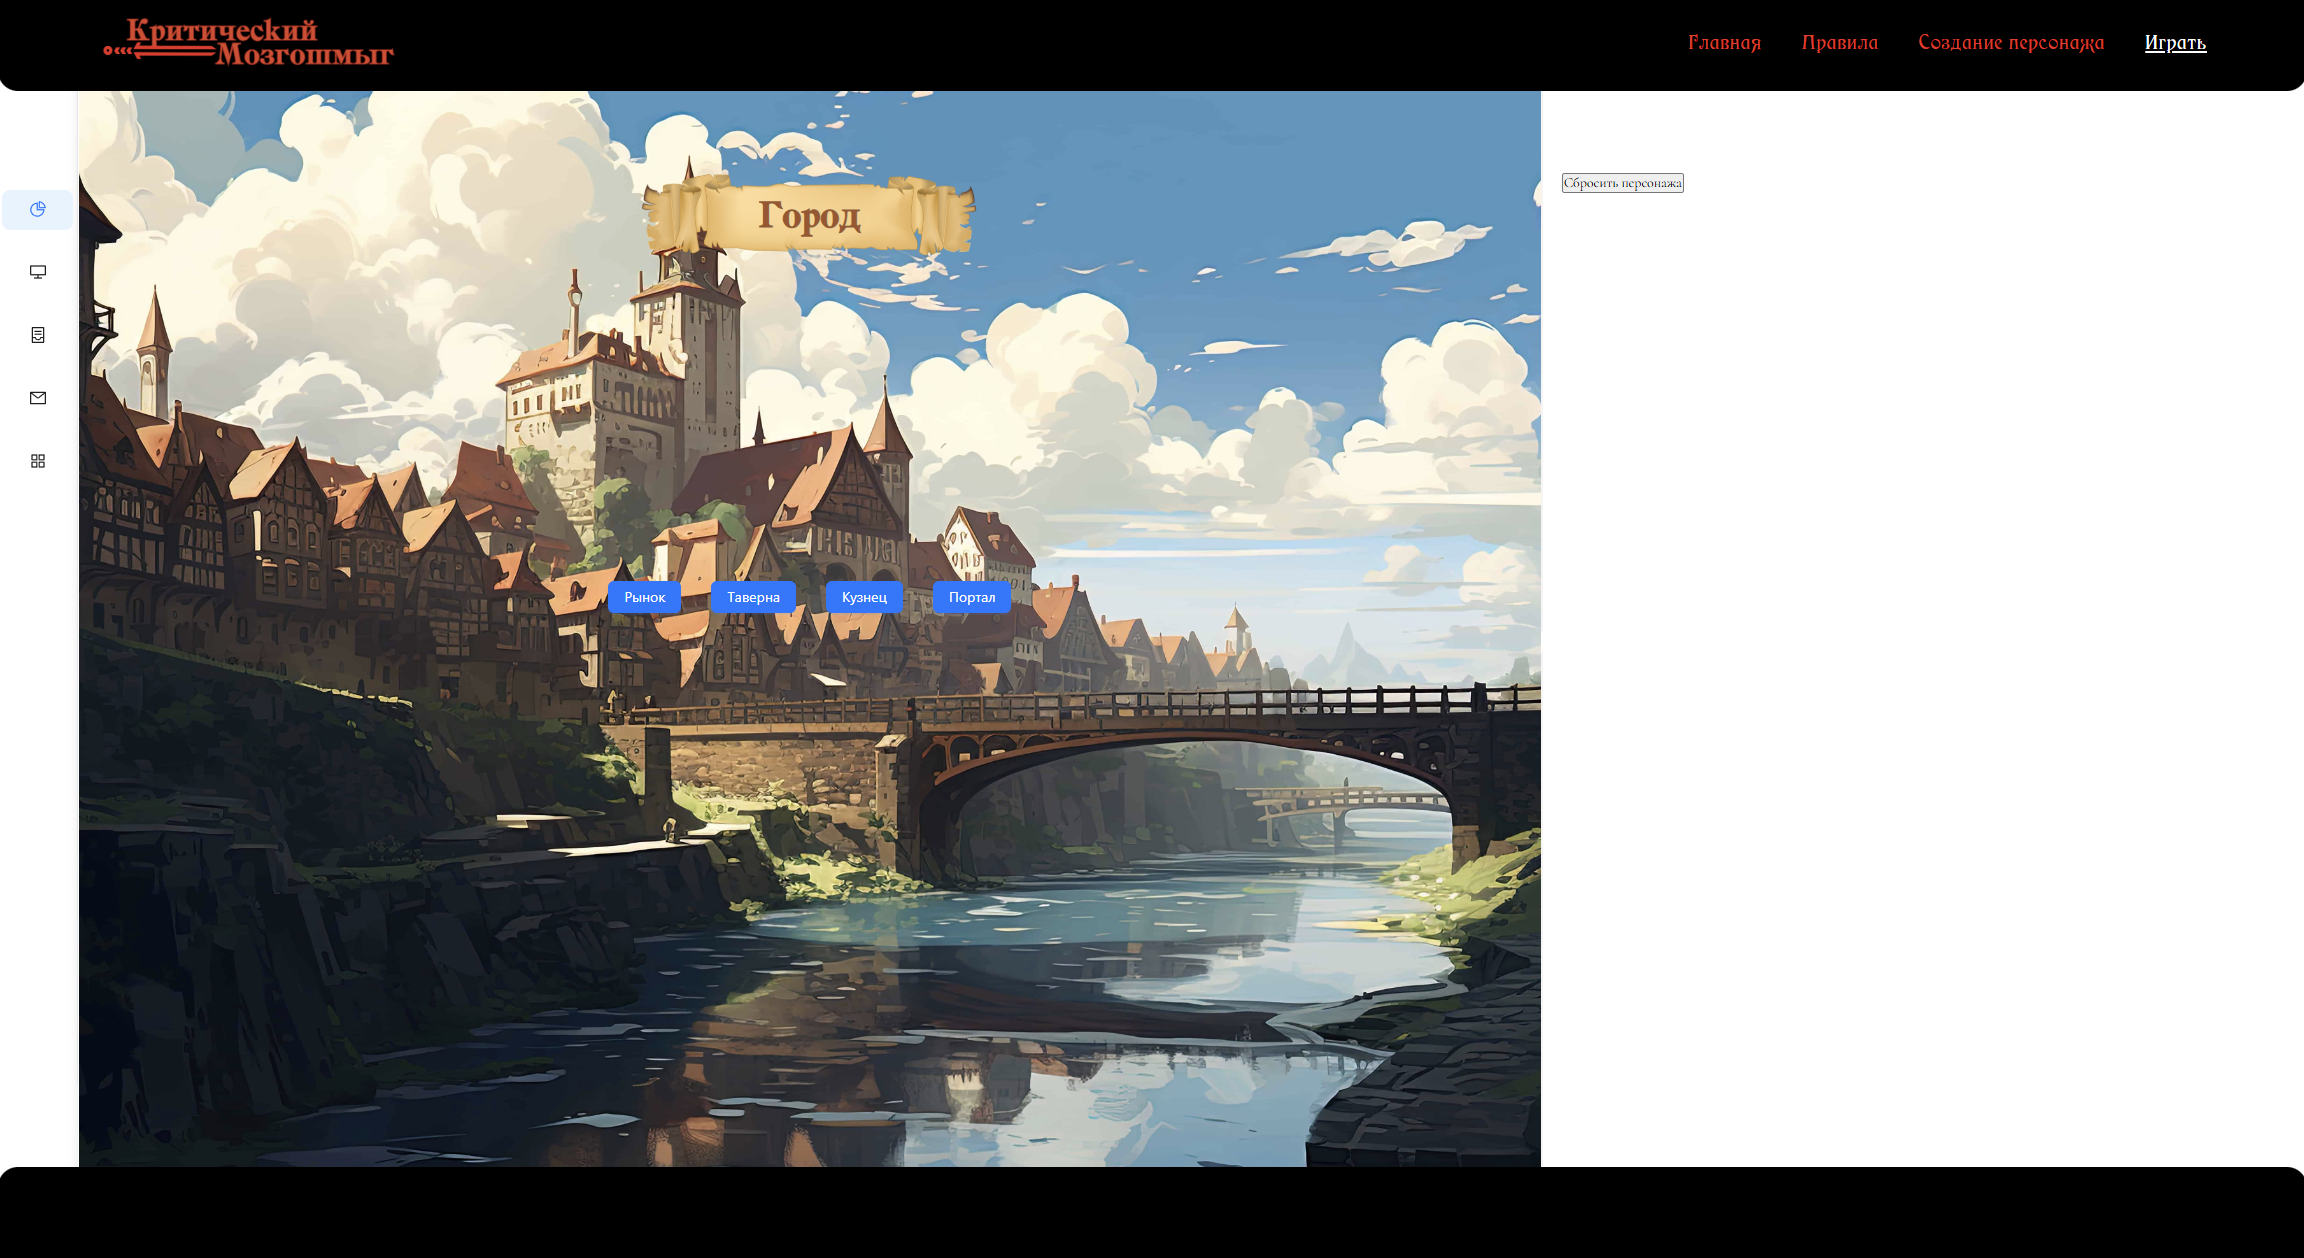
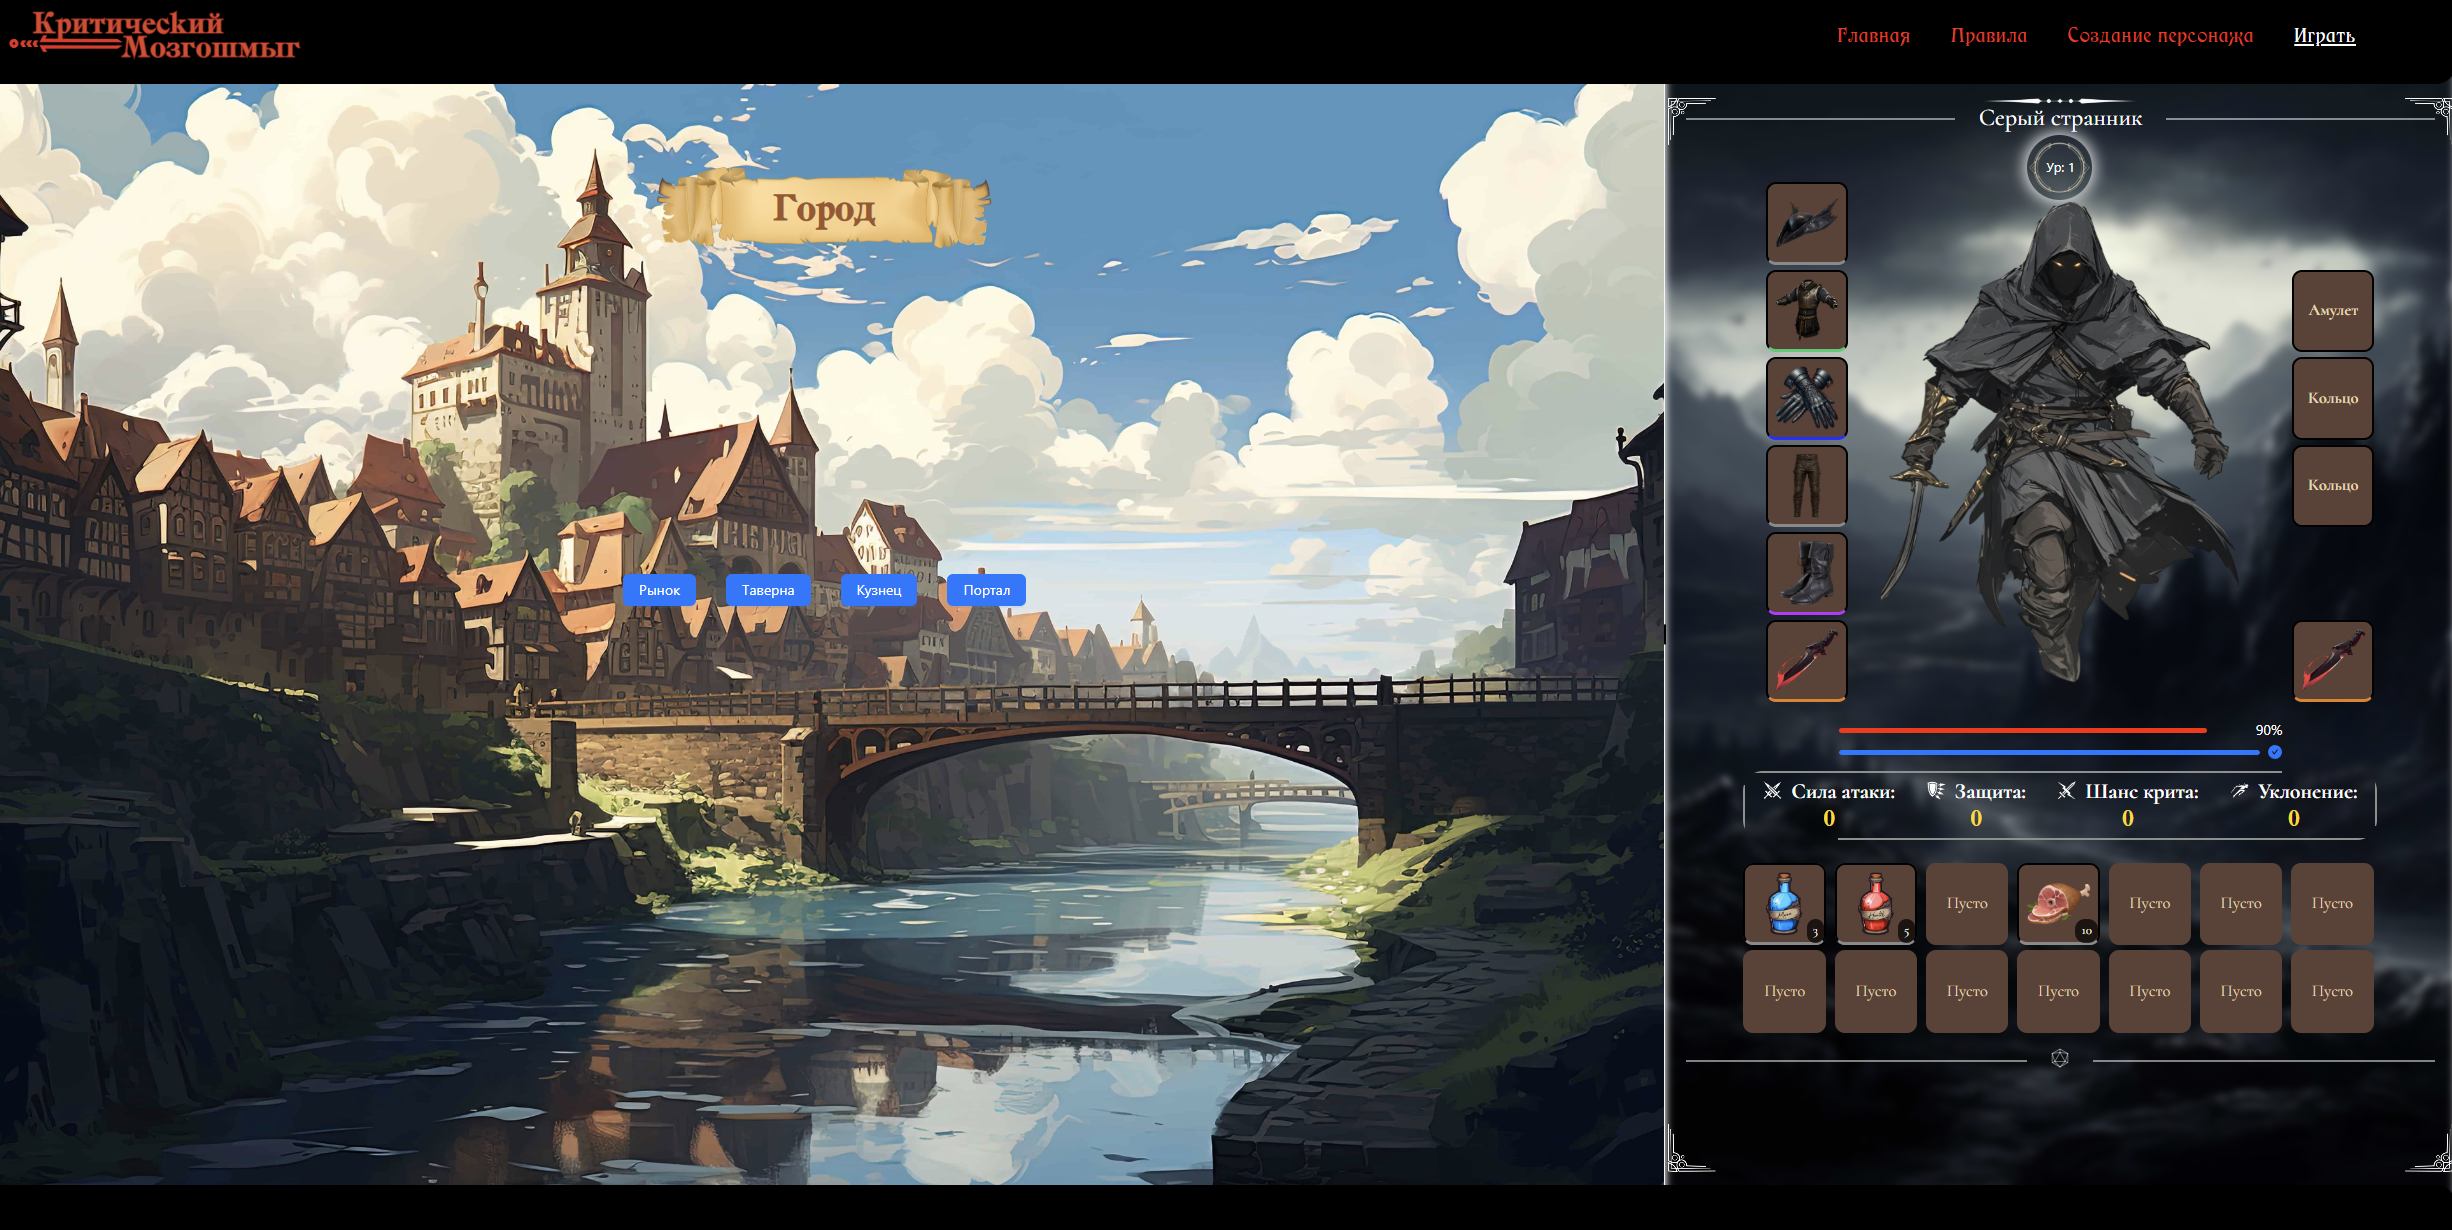
feat: add status bars component

diff --git a/src/components/game/Character/CombatStats.tsx b/src/components/game/Character/CombatStats.tsx
@@ -10,23 +10,35 @@ export default function Stats() {
                 <div className='ui-stats'></div>
                 <div className='stats-combat-wrapper'>
                     <div className='stats-combat-stat'>
-                        <p className='stats-descr'>Сила атаки: </p>
+                        <div className='stats-descr-wrap'>
+                            <svg xmlns="http://www.w3.org/2000/svg" width="1.5vh" height="1.5vh" viewBox="0 0 512 512"><path fill="#ffffff" d="M19.75 14.438c59.538 112.29 142.51 202.35 232.28 292.718l3.626 3.75l.063-.062c21.827 21.93 44.04 43.923 66.405 66.25c-18.856 14.813-38.974 28.2-59.938 40.312l28.532 28.53l68.717-68.717c42.337 27.636 76.286 63.646 104.094 105.81l28.064-28.06c-42.47-27.493-79.74-60.206-106.03-103.876l68.936-68.938l-28.53-28.53c-11.115 21.853-24.413 42.015-39.47 60.593c-43.852-43.8-86.462-85.842-130.125-125.47c-.224-.203-.432-.422-.656-.625C183.624 122.75 108.515 63.91 19.75 14.437zm471.875 0c-83.038 46.28-154.122 100.78-221.97 161.156l22.814 21.562l56.81-56.812l13.22 13.187l-56.438 56.44l24.594 23.186c61.802-66.92 117.6-136.92 160.97-218.72zm-329.53 125.906l200.56 200.53a402.965 402.965 0 0 1-13.405 13.032L148.875 153.53l13.22-13.186zm-76.69 113.28l-28.5 28.532l68.907 68.906c-26.29 43.673-63.53 76.414-106 103.907l28.063 28.06c27.807-42.164 61.758-78.174 104.094-105.81l68.718 68.717l28.53-28.53c-20.962-12.113-41.08-25.5-59.937-40.313c17.865-17.83 35.61-35.433 53.157-52.97l-24.843-25.655l-55.47 55.467c-4.565-4.238-9.014-8.62-13.374-13.062l55.844-55.844l-24.53-25.374c-18.28 17.856-36.602 36.06-55.158 54.594c-15.068-18.587-28.38-38.758-39.5-60.625z" /></svg>
+                            <p className='stats-descr'>Сила атаки: </p>
+                        </div>
                         <span className='stats-combat-num'>{derivedStats.attack}</span>
                     </div>
                     <div className='stats-combat-stat'>
-                        <p className='stats-descr'>Защита: </p>
+                        <div className='stats-descr-wrap'>
+                            <svg xmlns="http://www.w3.org/2000/svg" width="1.5vh" height="1.5vh" viewBox="0 0 512 512"><path fill="#ffffff" d="M142.37 21.035a341.886 341.886 0 0 0-4.64.01c-41.1.368-83.607 8.237-120.058 21.103c.386 80.173 7.825 165.28 27.805 235.348c20.04 70.286 52.434 124.282 100.748 145.553c53.917-24.07 85.753-72.574 104.593-136.5c18.927-64.216 24.042-143.3 24.215-224.29c-28.374-25.59-71.56-38.62-118.838-40.867c-4.578-.218-9.19-.336-13.824-.358zm2.136 27.844c4.387.018 8.76.13 13.105.345c34.76 1.712 67.982 9.664 90.966 29.44l3.25 2.796v4.288c0 62.11-3.212 125.186-16.738 178.236c-13.526 53.05-37.82 97.014-80.918 117.147l-3.87 1.81l-3.902-1.745c-40.838-18.267-64.292-66.432-78.556-124.086C53.578 199.455 48.707 131.105 48.707 69v-7.28l7.06-1.78c26.68-6.732 58.032-11.2 88.74-11.063zM347.18 60.376a1839.362 1839.362 0 0 1-.315 33.615l-53.578 5.467c-.145 6.3-.32 12.584-.547 18.84l53.647-5.474c-.39 12.47-.93 24.85-1.676 37.084l.52 4.436L500.1 87.36L347.18 60.376zm-202.75 7.195c-26.233-.098-53.274 3.532-76.955 8.953c.39 59.084 5.394 123.083 18.51 176.096c13.11 52.988 34.476 93.765 64.204 109.554c33.705-17.703 54.448-54.405 66.79-102.807C229.475 210.35 232.9 150.27 233.065 90.34c-18.126-13.75-45.83-20.945-76.375-22.45c-4.048-.2-8.142-.302-12.26-.318zm198.648 105.07a865.083 865.083 0 0 1-2.758 27.715l-52.654-8.59a764.025 764.025 0 0 1-2.227 18.57l52.5 8.567c-1.68 11.92-3.626 23.612-5.905 34.994l141.606-30.613l-130.56-50.644zm-12.865 99.573l-8.844 24.767a391.908 391.908 0 0 1-1.864 5.993l-48.633-18.643c-.69 2.516-1.398 5.02-2.13 7.502c-1.037 3.52-2.128 7-3.253 10.45l47.885 18.355a316.337 316.337 0 0 1-4.398 11.048l-.004.01l-7.89 22.095l150.517 7.754l-121.387-89.332zm-95.79 97.205a218.143 218.143 0 0 1-10.907 15.434l29.248 28.025c-8.436 7.337-17.59 13.893-27.545 19.567l140.58 62.37l-78.357-122.184c-6.4 9.8-13.464 18.9-21.238 27.24l-31.783-30.453z"/></svg>
+                            <p className='stats-descr'>Защита: </p>
+                        </div>
                         <span className='stats-combat-num'>{derivedStats.defense}</span>
                     </div>
                     <div className='stats-combat-stat'>
-                        <p className='stats-descr'>Шанс крита: </p>
+                        <div className='stats-descr-wrap'>
+                            <svg xmlns="http://www.w3.org/2000/svg" width="1.5vh" height="1.5vh" viewBox="0 0 512 512"><path fill="#ffffff" d="m498.03 15.125l-87.06 34.72l-164.5 164.5l-34.657-32.095l31.156-28.844l-223-133.594L176.155 164.5l-31.094 28.813l63.563 58.875l-70.03 70.03a398.93 398.93 0 0 0 8.968 10.438l9.656 9.656l71.5-71.5l13.718 12.688l-72 72l9.843 9.844a405.858 405.858 0 0 0 10.657 9.187l72-72l40.782 37.75l-29 26.876l223 133.594l-158.69-146.97l29-26.842l-67.217-62.282l162.5-162.5l34.718-87.03zm-67.34 53.688l13.218 13.218L280.28 245.657l-13.717-12.687L430.688 68.812zm-341 216.875L61.874 313.5L199.22 450.875l27.81-27.844c-56.283-34.674-103.014-81.617-137.343-137.342zM108.44 386.5l-81 81l17.75 17.75l81-81l-17.75-17.75z" /></svg>
+                            <p className='stats-descr'>Шанс крита: </p>
+                        </div>
                         <span className='stats-combat-num'>{derivedStats.critChance}</span>
                     </div>
                     <div className='stats-combat-stat'>
-                        <p className='stats-descr'>Уклонение: </p>
+                        <div className='stats-descr-wrap'>
+                            <svg xmlns="http://www.w3.org/2000/svg" width="1.5vh" height="1.5vh" viewBox="0 0 512 512"><path fill="#ffffff" d="M378.321 58.818c-3.95 6.585-5.374 14.345-2.228 20.761c8.425 5.494 50.968 15.802 47.286 29.773c-.784 2.301-1.087 3.54-1.515 5.224c-7.4-6.764-22.462-10.05-27.902-9.049c-4.832.843-9.721 3.05-14.44 3.248c-5.986-.032-11.34-1.516-15.925-4.254c3.24 8.943 14.85 15.537 22.049 14.412c11.318-2.258 23.535 3.723 31.779 6.67c-5.055 13.86-22.014 7.334-22.014 7.334l-121.937-28.02L253.44 90.45l-17.34 17.72l88.945 29.131l-120.023 2.676l-29.907-12.486l-40.77 23.617l182.99 13.291l-56.212 59.426h99.22c19.341-15.746 63.009-51.2 63.645-50.793c12.867 29.973 33.256 19.023 48.815 1.55c4.515-5.069 9.47 12.362 12.021-16.015c.64-1 1.217-2.011 1.772-3.03c-18.028-7.661-48.58 5.732-31.817-17.992c5.135-7.262 20.776-5.296 36.871 3.97c.582-15.262-1.056-42.396-15.484-48.39c-14.85-6.169-34.024-5.48-41.316 2.682c-9.946-16.88-39.574-19.07-51.307-20.764c-3.453-5.429-4.558-10.479-5.223-16.226zm-188.328 59.236l-4.558 4.034l16.138 6.853l10.852-10.887zm276.578 24.354c6.542 4.808 7.01 5.943 11.393 6.1c1.597-1.021 5.12-4.613 1.857-5.37l-11.04-2.203c-1.14-.204-2.02.646-2.21 1.473zM148.167 160.44l-5.95 5.264h22.43l5.952-5.264zm-39.285 13.598l-12 15.357h15.855l5.461-6.414h42.592l-7.937 6.94h15.953l16-15.356zm15.664 15.933L20.251 309.592l23.027-4.516l98.618-115.104zM251.3 234.216L119.878 373.16l-16.697 4.265s-12.898 29.813-18.834 65.059c7.659 4.113 17.39-8.02 17.39-8.02s-1.1 13.09 6.64 9.743c14.097-28.569 29.864-58.248 29.864-58.248l159.721-121.877l20.994 5.584l27.758 7.386l-62.557 58.727l-11.238-12.15s-34.319 38.069-47.305 66.224c4.13 4.74 20.33-7.64 20.33-7.64s-5.369 9.615 1.932 9.31c17.808-16.694 29.682-29.826 29.682-29.826l132.82-98.543l-48.23-28.938z"/></svg>
+                            <p className='stats-descr'>Уклонение: </p>
+                        </div>
                         <span className='stats-combat-num'>{derivedStats.evasion}</span>
                     </div>
                 </div>
-            </div> 
+            </div>
         </div>
     )
 }

diff --git a/src/components/game/Character/CharacterSheet.tsx b/src/components/game/Character/CharacterSheet.tsx
@@ -8,9 +8,10 @@ import type { Accessory, Armor, Consumable, Equipment, Weapon } from "../../../t
 import EquipmentSlot from "./EquipmentSlot";
 import { ITEM_IMAGES } from "../../../utils/data/items/starterGear";
 import { canEquipItem } from "../../../utils/generators/items-builder";
-import { ConfigProvider, Divider, Progress } from 'antd';
+import { Divider } from 'antd';
 import Inventory from "./Inventory";
 import Stats from "./CombatStats";
+import StatusBars from "./StatusBars";
 
 export default function CharacterSheet() {
     const { reset,
@@ -21,7 +22,7 @@ export default function CharacterSheet() {
         unequipItem,
         moveInventoryItem,
         selectedClass,
-        level
+        level,
     } = useCharacterStore();
     const [activeId, setActiveId] = useState<string | null>(null);
     const navigate = useNavigate();
@@ -174,41 +175,13 @@ export default function CharacterSheet() {
                     </div>
                 </div>
 
-                {/* <Stats /> */}
-
-                <div className="character-sheet-status-wrapper">
-                    <ConfigProvider
-                        theme={{
-                            components: {
-                                Progress: {
-                                    colorText: 'white',
-                                },
-                            },
-                        }}
-                    >
-                        <Progress className="character-sheet-hp" showInfo={false} size={{ height: 6 }} percent={100} strokeColor={'red'} style={{ width: '30rem', color: 'white' }} />
-                    </ConfigProvider>
-                    <ConfigProvider
-                        theme={{
-                            components: {
-                                Progress: {
-                                    colorText: 'white',
-                                    colorSuccess: '#1677ff'
-                                },
-                            },
-                        }}
-                    >
-                        <Progress className="character-sheet-hp" showInfo={false} size={{ height: 6 }} percent={100} style={{ width: '30rem', color: 'white' }} />
-                    </ConfigProvider>
-                </div>
-
+                <StatusBars />
                 <Stats />
-
                 <Inventory />
 
-
-                <Divider style={{ borderColor: 'white', color: 'white', margin: 0, fontFamily: 'Cormorant', fontSize: 23 }}>.</Divider>
-
+                <Divider style={{ borderColor: 'white', color: 'white', margin: 0, fontFamily: 'Cormorant', fontSize: 23 }}>
+                    <svg xmlns="http://www.w3.org/2000/svg" width="20" height="20" viewBox="0 0 48 48"><path fill="none" stroke="#ffffff" stroke-linecap="round" stroke-linejoin="round" d="M42.65 34.75v-21.5L24 2.5L5.35 13.25v21.5L24 45.5z" /><path fill="none" stroke="#ffffff" stroke-linecap="round" stroke-linejoin="round" d="m36.31 32.45l6.34-19.2L24 10.59L5.35 13.25l6.34 19.2L24 45.5z" /><path fill="none" stroke="#ffffff" stroke-linecap="round" stroke-linejoin="round" d="M36.31 32.45H11.69L24 10.59zM24 10.59V2.5m12.31 29.95l6.34 2.3m-30.96-2.3l-6.34 2.3" /></svg>
+                </Divider>
 
                 <DragOverlay>
                     {activeItemData ? (

diff --git a/src/components/game/Character/CharacterSheet.css b/src/components/game/Character/CharacterSheet.css
@@ -1,5 +1,5 @@
 .characterSheet-container {
-    padding: 2.5rem 20px;
+    padding: 2.2rem 20px;
     height: 100%;
     position: relative;
     z-index: 0;
@@ -21,20 +21,20 @@
 
 .ui-element1 {
     position: absolute;
-    top: 3vh;
+    top: 2.5vh;
     left: 0;
-    width: 50px;
-    height: 50px;
+    width: 4vh;
+    height: 4vh;
     background-image: url('../../../assets/images/icons/Ui-character.png');
     background-size: cover;
 }
 
 .ui-element2 {
     position: absolute;
-    top: 3vh;
+    top: 2.5vh;
     right: 0;
-    width: 50px;
-    height: 50px;
+    width: 4vh;
+    height: 4vh;
     background-image: url('../../../assets/images/icons/Ui-character.png');
     background-size: cover;
     transform: scaleX(-1);
@@ -42,10 +42,10 @@
 
 .ui-element3 {
     position: absolute;
-    top: 2vh;
+    top: 1.7vh;
     left: 50%;
-    width: 160px;
-    height: 20px;
+    width: 13vh;
+    height: 2vh;
     background-image: url('../../../assets/images/icons/Ui-character2.png');
     background-size: cover;
     background-repeat: no-repeat;
@@ -54,10 +54,10 @@
 
 .ui-element4 {
     position: absolute;
-    bottom: 3vh;
+    bottom: 2.5vh;
     right: 0;
-    width: 50px;
-    height: 50px;
+    width: 4vh;
+    height: 4vh;
     background-image: url('../../../assets/images/icons/Ui-character.png');
     background-size: cover;
     transform: scale(-1);
@@ -65,10 +65,10 @@
 
 .ui-element5 {
     position: absolute;
-    bottom: 3vh;
+    bottom: 2.5vh;
     left: 0;
-    width: 50px;
-    height: 50px;
+    width: 4vh;
+    height: 4vh;
     background-image: url('../../../assets/images/icons/Ui-character.png');
     background-size: cover;
     transform: scaleY(-1);
@@ -110,12 +110,16 @@
     margin-bottom: 10px;
 }
 
-.character-sheet-status-wrapper {
+.character-sheet-health-wrapper {
     display: flex;
     flex-direction: column;
     align-items: center;
-    width: 100%;
-    margin-bottom: 10px;
+    color: white;
+}
+
+.character-sheet-health-num {
+    font-family: 'Cormorant', cursive;
+    font-size: 1.5vh;
 }
 
 .equipment-grid {

diff --git a/src/components/game/Character/StatusBars.tsx b/src/components/game/Character/StatusBars.tsx
@@ -1,0 +1,32 @@
+import { ConfigProvider, Progress } from "antd";
+import './StatusBars.css'
+
+export default function StatusBars() {
+    return (
+        <div className="character-sheet-status-wrapper">
+            <ConfigProvider
+                theme={{
+                    components: {
+                        Progress: {
+                            colorText: 'white',
+                        },
+                    },
+                }}
+            >
+                <Progress className="character-sheet-hp" size={{ height: 5 }} percent={90} strokeColor={'red'} style={{ width: '35vh', color: 'white' }} />
+            </ConfigProvider>
+            <ConfigProvider
+                theme={{
+                    components: {
+                        Progress: {
+                            colorText: 'white',
+                            colorSuccess: '#1677ff'
+                        },
+                    },
+                }}
+            >
+                <Progress className="character-sheet-hp" size={{ height: 5 }} percent={100} style={{ width: '35vh', color: 'white' }} />
+            </ConfigProvider>
+        </div>
+    )
+}

diff --git a/src/stores/characterStore.ts b/src/stores/characterStore.ts
@@ -106,12 +106,6 @@ export const useCharacterStore = create<CharacterStore>()(
         return !!(selectedClass && selectedRace)
       },
 
-      reset: () => set({ 
-        selectedClass: null, 
-        selectedRace: null,
-        level: 1,
-      }),
-
       unequipItem: (equipmentSlot, inventoryIndex) => {
         const { equipment, inventory } = get();
 
@@ -171,6 +165,12 @@ export const useCharacterStore = create<CharacterStore>()(
 
         set({ equipment: newEquipment });
       },
+      
+      reset: () => set({
+        selectedClass: null,
+        selectedRace: null,
+        level: 1,
+      }),
     }),
     {
       name: 'character-storage',

diff --git a/src/components/game/Character/CombatStats.css b/src/components/game/Character/CombatStats.css
@@ -9,8 +9,8 @@
 .stats-box {
     position: relative;
     padding: 10px;
-    width: 45vh;
-    border-radius: 10px;
+    width: 50vh;
+    border-radius: 20px;
     background: 
         linear-gradient(to right, rgb(143, 143, 143) 85%, transparent 20%) top,
         linear-gradient(to bottom, rgb(143, 143, 143) 80%, transparent 20%) right,
@@ -33,6 +33,11 @@
     flex-direction: column;
     align-items: center;
     gap: 5px;
+}
+
+.stats-descr-wrap {
+    display: flex;
+    gap: 0.7vh;
 }
 
 .stats-descr {

diff --git a/src/components/game/Character/StatusBars.css b/src/components/game/Character/StatusBars.css
@@ -1,0 +1,7 @@
+.character-sheet-status-wrapper {
+    display: flex;
+    flex-direction: column;
+    align-items: center;
+    width: 100%;
+    margin-bottom: 10px;
+}

diff --git a/src/components/layout/AppHeader.css b/src/components/layout/AppHeader.css
@@ -61,7 +61,6 @@
 .nav-link-play {
     color: rgb(237, 28, 36);
     transition: color 0.3s ease;
-    font-size: 30px;
     font-weight: 600;
 }
 
